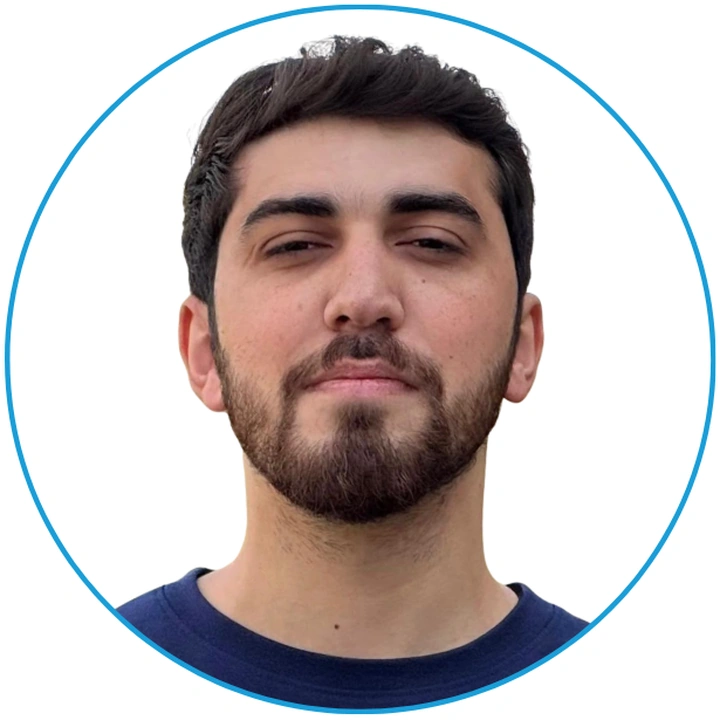
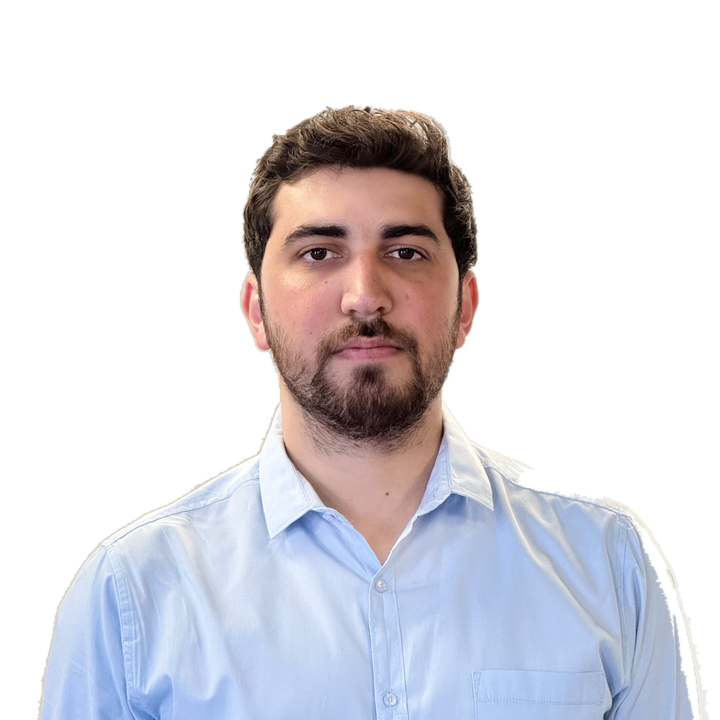
Add files via upload

diff --git a/workshop.html b/workshop.html
@@ -1,4 +1,4 @@
-<!doctype html><html lang="az"><head><meta charset="UTF-8" /><meta name="viewport" content="width=device-width, initial-scale=1.0" /><meta name="description" content="Erkən karyera tədqiqatçıları üçün üç həftəlik ARS emalatxanası." /><meta name="theme-color" content="#071f4a" /><link rel="canonical" href="https://azresearchsociety.org/workshop.html" /><meta property="og:type" content="website" /><meta property="og:title" content="Early Researcher Workshop | Azerbaijan Research Society" /><meta property="og:description" content="A free three-week online workshop covering research methods, ethics, and journal submission." /><meta property="og:url" content="https://azresearchsociety.org/workshop.html" /><title>Emalatxana | Azərbaycan Tədqiqat Cəmiyyəti</title><link rel="icon" href="assets/ars-logo.png?v=22" /><link rel="stylesheet" href="styles.css?v=22" /><script src="script.js?v=22" defer></script></head>
+<!doctype html><html lang="az"><head><meta charset="UTF-8" /><meta name="viewport" content="width=device-width, initial-scale=1.0" /><meta name="description" content="Erkən karyera tədqiqatçıları üçün üç həftəlik ARS emalatxanası." /><meta name="theme-color" content="#071f4a" /><link rel="canonical" href="https://azresearchsociety.org/workshop.html" /><meta property="og:type" content="website" /><meta property="og:title" content="Early Researcher Workshop | Azerbaijan Research Society" /><meta property="og:description" content="A free three-week online workshop covering research methods, ethics, and journal submission." /><meta property="og:url" content="https://azresearchsociety.org/workshop.html" /><title>Emalatxana | Azərbaycan Tədqiqat Cəmiyyəti</title><link rel="icon" href="assets/ars-logo.png?v=22" /><link rel="stylesheet" href="styles.css?v=22" /><script src="script.js?v=23" defer></script></head>
 <body class="inner-page" data-page="workshop"><a class="skip-link" href="#main" data-i18n="skip">Əsas məzmuna keç</a><header class="site-header"><div class="container header-inner"><a class="brand" href="index.html"><img src="assets/ars-logo.png?v=22" alt="ARS — Azerbaijan Research Society" width="662" height="700" /></a><button class="menu-toggle" type="button" aria-expanded="false" aria-controls="site-nav" aria-label="Menyunu aç"><span></span><span></span><span></span></button><nav class="site-nav" id="site-nav" data-i18n-aria-label="navLabel"><a href="about.html" data-i18n="navAbout">Haqqımızda</a><a href="programs.html" data-i18n="navPrograms">Proqramlar</a><a href="workshop.html" aria-current="page" data-i18n="navWorkshop">Emalatxana</a><a href="departments.html" data-i18n="navDepartments">Şöbələr</a><a href="people.html" data-i18n="navTeam">İnsanlar</a><a href="contact.html" data-i18n="navContact">Əlaqə</a></nav><div class="language-switch" role="group" data-i18n-aria-label="languageLabel"><button class="lang-button active" type="button" data-lang="az" aria-pressed="true">AZ</button><span></span><button class="lang-button" type="button" data-lang="en" aria-pressed="false">EN</button></div></div></header>
 <main id="main"><section class="page-hero"><div class="container reveal"><span class="page-eyebrow" data-i18n="workshopLabel">Yeni tədqiqatçılar üçün emalatxana</span><h1 data-i18n-html="workshopTitle">Tədqiqat ideyasından<br /><em>nəşrə doğru.</em></h1><p data-i18n="workshopSummary">Erkən karyera mərhələsində olan tədqiqatçılar üçün üç masterklas, praktiki tapşırıqlar və həftəlik inkişaf yolu.</p></div></section>
 <section class="section workshop"><div class="container"><span class="workshop-badge" data-i18n="workshopBadge">Pulsuz · Onlayn · 3 həftə</span><ol class="workshop-weeks"><li class="workshop-week reveal"><span class="week-number">01</span><span class="week-label" data-i18n="weekOne">1-ci həftə</span><h3 data-i18n="methodsTitle">Tədqiqat metodları</h3><p data-i18n="methodsText">Tədqiqat sualı, uyğun metodologiyanın seçilməsi və etibarlı tədqiqat planının qurulması.</p></li><li class="workshop-week reveal"><span class="week-number">02</span><span class="week-label" data-i18n="weekTwo">2-ci həftə</span><h3 data-i18n="ethicsTitle">Tədqiqat etikası</h3><p data-i18n="ethicsText">Akademik dürüstlük, məlumatlı razılıq, müəlliflik və məsuliyyətli tədqiqat təcrübəsi.</p></li><li class="workshop-week reveal"><span class="week-number">03</span><span class="week-label" data-i18n="weekThree">3-cü həftə</span><h3 data-i18n="publishingTitle">Məqalənin jurnala təqdim edilməsi</h3><p data-i18n="publishingText">Uyğun jurnalın seçilməsi, təqdimat sənədləri və rəy prosesinə hazırlıq.</p></li></ol><div class="workshop-details reveal"><div><span data-i18n="formatTitle">Format</span><p data-i18n="formatText">Təqdimatçının imkanından asılı olaraq Azərbaycan və ya ingilis dilində</p></div><div><span data-i18n="tasksTitle">Həftəlik tapşırıqlar</span><p data-i18n="tasksText">Hər tapşırıq növbəti mövzu başlamazdan əvvəl tamamlanır</p></div><a class="button" href="contact.html"><span data-i18n="workshopCta">Marağını bildir</span></a></div></div></section></main>

diff --git a/executive-board.html b/executive-board.html
@@ -5,7 +5,7 @@
     <meta name="description" content="Azərbaycan Tədqiqat Cəmiyyətinin İcra Şurası." /><meta name="theme-color" content="#071f4a" />
     <link rel="canonical" href="https://azresearchsociety.org/executive-board.html" />
     <meta property="og:type" content="website" /><meta property="og:title" content="Executive Board | Azerbaijan Research Society" /><meta property="og:description" content="Meet the Executive Board of the Azerbaijan Research Society." /><meta property="og:url" content="https://azresearchsociety.org/executive-board.html" /><meta property="og:image" content="https://azresearchsociety.org/assets/ars-logo.png?v=22" />
-    <title>İcra Şurası | Azərbaycan Tədqiqat Cəmiyyəti</title><link rel="icon" href="assets/ars-logo.png?v=22" /><link rel="stylesheet" href="styles.css?v=22" /><script src="script.js?v=22" defer></script>
+    <title>İcra Şurası | Azərbaycan Tədqiqat Cəmiyyəti</title><link rel="icon" href="assets/ars-logo.png?v=22" /><link rel="stylesheet" href="styles.css?v=22" /><script src="script.js?v=23" defer></script>
   </head>
   <body class="inner-page" data-page="executive">
     <a class="skip-link" href="#main" data-i18n="skip">Əsas məzmuna keç</a>
@@ -17,7 +17,7 @@
         <div class="board-visualization executive-structure reveal" data-board-visualization>
           <section class="board-level board-leadership" aria-labelledby="executive-leadership"><h2 class="board-level-label" id="executive-leadership" data-i18n="leadershipLayer">Rəhbərlik</h2><div class="board-level-grid board-leaders">
             <article class="person-card" data-profile="ibrahim"><div class="portrait-wrap"><img src="assets/ibrahim.webp?v=10" alt="İbrahim Məmmədov" width="720" height="720" /></div><h3>İbrahim Məmmədov</h3><p data-i18n="roleFounder">Təsisçi</p><span class="affiliation" data-i18n-html="ibrahimProfile">Sakarya Universiteti · PhD namizədi<br />Bərk cisim fizikası · DFT</span><div class="flag-line" aria-hidden="true"><i></i><i></i><i></i></div><button class="profile-open" type="button" data-i18n="viewProfile">Profilə bax</button></article>
-            <article class="person-card" data-profile="masud"><div class="portrait-wrap"><img src="assets/masud.webp?v=10" alt="Məsud Babayev" width="720" height="720" /></div><h3>Məsud Babayev</h3><p data-i18n="roleCofounder">Həmtəsisçi</p><span class="affiliation" data-i18n-html="masudProfile">KFUPM · PhD namizədi<br />Qaz hidratları · Lay modelləşdirilməsi</span><div class="flag-line" aria-hidden="true"><i></i><i></i><i></i></div><button class="profile-open" type="button" data-i18n="viewProfile">Profilə bax</button></article>
+            <article class="person-card" data-profile="masud"><div class="portrait-wrap"><img src="assets/masud.webp?v=23" alt="Məsud Babayev" width="720" height="720" /></div><h3>Məsud Babayev</h3><p data-i18n="roleCofounder">Həmtəsisçi</p><span class="affiliation" data-i18n-html="masudProfile">KFUPM · PhD namizədi<br />Qaz hidratları · Lay modelləşdirilməsi</span><div class="flag-line" aria-hidden="true"><i></i><i></i><i></i></div><button class="profile-open" type="button" data-i18n="viewProfile">Profilə bax</button></article>
           </div></section>
           <div class="structure-connector" aria-hidden="true"><span></span></div>
           <section class="board-level board-operations" aria-labelledby="executive-operations"><h2 class="board-level-label" id="executive-operations" data-i18n="operationsLayer">Proqramlar və əməliyyatlar</h2><div class="board-level-grid board-team-members">

diff --git a/about.html b/about.html
@@ -1,4 +1,4 @@
-<!doctype html><html lang="az"><head><meta charset="UTF-8" /><meta name="viewport" content="width=device-width, initial-scale=1.0" /><meta name="description" content="Azərbaycan Tədqiqat Cəmiyyətinin missiyası, məqsədi və dəyərləri." /><meta name="theme-color" content="#071f4a" /><link rel="canonical" href="https://azresearchsociety.org/about.html" /><meta property="og:type" content="website" /><meta property="og:title" content="About | Azerbaijan Research Society" /><meta property="og:description" content="The mission, purpose, and values of the Azerbaijan Research Society." /><meta property="og:url" content="https://azresearchsociety.org/about.html" /><title>Haqqımızda | Azərbaycan Tədqiqat Cəmiyyəti</title><link rel="icon" href="assets/ars-logo.png?v=22" /><link rel="stylesheet" href="styles.css?v=22" /><script src="script.js?v=22" defer></script></head>
+<!doctype html><html lang="az"><head><meta charset="UTF-8" /><meta name="viewport" content="width=device-width, initial-scale=1.0" /><meta name="description" content="Azərbaycan Tədqiqat Cəmiyyətinin missiyası, məqsədi və dəyərləri." /><meta name="theme-color" content="#071f4a" /><link rel="canonical" href="https://azresearchsociety.org/about.html" /><meta property="og:type" content="website" /><meta property="og:title" content="About | Azerbaijan Research Society" /><meta property="og:description" content="The mission, purpose, and values of the Azerbaijan Research Society." /><meta property="og:url" content="https://azresearchsociety.org/about.html" /><title>Haqqımızda | Azərbaycan Tədqiqat Cəmiyyəti</title><link rel="icon" href="assets/ars-logo.png?v=22" /><link rel="stylesheet" href="styles.css?v=22" /><script src="script.js?v=23" defer></script></head>
 <body class="inner-page" data-page="about"><a class="skip-link" href="#main" data-i18n="skip">Əsas məzmuna keç</a>
 <header class="site-header"><div class="container header-inner"><a class="brand" href="index.html" aria-label="Azerbaijan Research Society home"><img src="assets/ars-logo.png?v=22" alt="ARS — Azerbaijan Research Society" width="662" height="700" /></a><button class="menu-toggle" type="button" aria-expanded="false" aria-controls="site-nav" aria-label="Menyunu aç"><span></span><span></span><span></span></button><nav class="site-nav" id="site-nav" data-i18n-aria-label="navLabel"><a href="about.html" aria-current="page" data-i18n="navAbout">Haqqımızda</a><a href="programs.html" data-i18n="navPrograms">Proqramlar</a><a href="workshop.html" data-i18n="navWorkshop">Emalatxana</a><a href="departments.html" data-i18n="navDepartments">Şöbələr</a><a href="people.html" data-i18n="navTeam">İnsanlar</a><a href="contact.html" data-i18n="navContact">Əlaqə</a></nav><div class="language-switch" role="group" data-i18n-aria-label="languageLabel"><button class="lang-button active" type="button" data-lang="az" aria-pressed="true">AZ</button><span></span><button class="lang-button" type="button" data-lang="en" aria-pressed="false">EN</button></div></div></header>
 <main id="main"><section class="page-hero"><div class="container reveal"><span class="page-eyebrow" data-i18n="aboutLabel">Haqqımızda</span><h1 data-i18n-html="aboutLead">Sərhədləri aşan, biliyi paylaşan və <em>Azərbaycan elminin gələcəyini</em> birlikdə quran tədqiqatçılar şəbəkəsiyik.</h1></div></section>

diff --git a/index.html b/index.html
@@ -18,7 +18,7 @@
     <link rel="icon" href="assets/ars-logo.png?v=22" />
     <link rel="preload" as="image" href="assets/ars-logo.png?v=22" />
     <link rel="stylesheet" href="styles.css?v=22" />
-    <script src="script.js?v=22" defer></script>
+    <script src="script.js?v=23" defer></script>
   </head>
   <body data-page="home">
     <a class="skip-link" href="#main" data-i18n="skip">Əsas məzmuna keç</a>
@@ -246,7 +246,7 @@
               <h3>İbrahim Məmmədov</h3><p data-i18n="roleFounder">Təsisçi</p><span class="affiliation" data-i18n-html="ibrahimProfile">Sakarya Universiteti · PhD namizədi<br />Bərk cisim fizikası · DFT</span><div class="flag-line" aria-hidden="true"><i></i><i></i><i></i></div><button class="profile-open" type="button" data-profile="ibrahim" data-i18n="viewProfile">Profilə bax</button>
             </article>
             <article class="person-card reveal" data-profile="masud">
-              <div class="portrait-wrap"><img src="assets/masud.webp?v=10" alt="Məsud Babayev" width="720" height="720" loading="lazy" decoding="async" /></div>
+              <div class="portrait-wrap"><img src="assets/masud.webp?v=23" alt="Məsud Babayev" width="720" height="720" loading="lazy" decoding="async" /></div>
               <h3>Məsud Babayev</h3><p data-i18n="roleCofounder">Həmtəsisçi</p><span class="affiliation" data-i18n-html="masudProfile">KFUPM · PhD namizədi<br />Qaz hidratları · Lay modelləşdirilməsi</span><div class="flag-line" aria-hidden="true"><i></i><i></i><i></i></div><button class="profile-open" type="button" data-profile="masud" data-i18n="viewProfile">Profilə bax</button>
             </article>
             <article class="person-card reveal" data-profile="humay">

diff --git a/people.html b/people.html
@@ -14,7 +14,7 @@
     <title>İnsanlar | Azərbaycan Tədqiqat Cəmiyyəti</title>
     <link rel="icon" href="assets/ars-logo.png?v=22" />
     <link rel="stylesheet" href="styles.css?v=22" />
-    <script src="script.js?v=22" defer></script>
+    <script src="script.js?v=23" defer></script>
   </head>
   <body class="inner-page" data-page="people">
     <a class="skip-link" href="#main" data-i18n="skip">Əsas məzmuna keç</a>
@@ -40,7 +40,7 @@
         <div class="container choice-grid">
           <a class="choice-card reveal" href="executive-board.html">
             <span class="choice-index">01 · GOVERNANCE</span>
-            <div class="board-preview" aria-hidden="true"><img src="assets/ibrahim.webp?v=10" alt="" /><img src="assets/masud.webp?v=10" alt="" /><img src="assets/humay.webp?v=10" alt="" /><img src="assets/jale.webp?v=10" alt="" /><img src="assets/nargiz.webp?v=10" alt="" /><img src="assets/zehra.webp?v=10" alt="" /></div>
+            <div class="board-preview" aria-hidden="true"><img src="assets/ibrahim.webp?v=10" alt="" /><img src="assets/masud.webp?v=23" alt="" /><img src="assets/humay.webp?v=10" alt="" /><img src="assets/jale.webp?v=10" alt="" /><img src="assets/nargiz.webp?v=10" alt="" /><img src="assets/zehra.webp?v=10" alt="" /></div>
             <h2 data-i18n="executiveChoiceTitle">İcra Şurası</h2>
             <p data-i18n="executiveChoiceText">ARS-in strategiyasını, proqramlarını, kommunikasiyasını və icma fəaliyyətini idarə edən komanda.</p>
             <span class="choice-link"><span data-i18n="exploreBoard">Şuraya bax</span><span aria-hidden="true">↗</span></span>

diff --git a/scientific-board.html b/scientific-board.html
@@ -5,7 +5,7 @@
     <meta name="description" content="Azərbaycan Tədqiqat Cəmiyyətinin Elmi Məsləhət Şurası." /><meta name="theme-color" content="#071f4a" />
     <link rel="canonical" href="https://azresearchsociety.org/scientific-board.html" />
     <meta property="og:type" content="website" /><meta property="og:title" content="Scientific Advisory Board | Azerbaijan Research Society" /><meta property="og:description" content="Meet the Scientific Advisory Board of the Azerbaijan Research Society." /><meta property="og:url" content="https://azresearchsociety.org/scientific-board.html" /><meta property="og:image" content="https://azresearchsociety.org/assets/ars-logo.png?v=22" />
-    <title>Elmi Məsləhət Şurası | Azərbaycan Tədqiqat Cəmiyyəti</title><link rel="icon" href="assets/ars-logo.png?v=22" /><link rel="stylesheet" href="styles.css?v=22" /><script src="script.js?v=22" defer></script>
+    <title>Elmi Məsləhət Şurası | Azərbaycan Tədqiqat Cəmiyyəti</title><link rel="icon" href="assets/ars-logo.png?v=22" /><link rel="stylesheet" href="styles.css?v=22" /><script src="script.js?v=23" defer></script>
   </head>
   <body class="inner-page" data-page="advisory">
     <a class="skip-link" href="#main" data-i18n="skip">Əsas məzmuna keç</a>

diff --git a/script.js b/script.js
@@ -348,7 +348,7 @@ const profiles = {
   masud: {
     name: "Məsud Babayev",
     roleKey: "roleCofounder",
-    image: "assets/masud.webp?v=10",
+    image: "assets/masud.webp?v=23",
     bio: {
       az: [
         "Məsud Babayev Azərbaycan Dövlət Neft və Sənaye Universitetində Neft-qaz mühəndisliyi üzrə bakalavr, Xəzər Universitetində Neft-qaz yataqlarının işlənilməsi üzrə magistr təhsili alıb. Magistratura dövründə SOCAR-da mühəndis kimi çalışıb.",

diff --git a/departments.html b/departments.html
@@ -13,7 +13,7 @@
     <title>Elmi şöbələr | Azərbaycan Tədqiqat Cəmiyyəti</title>
     <link rel="icon" href="assets/ars-logo.png?v=22" />
     <link rel="stylesheet" href="styles.css?v=22" />
-    <script src="script.js?v=22" defer></script>
+    <script src="script.js?v=23" defer></script>
   </head>
   <body class="inner-page" data-page="departments">
     <a class="skip-link" href="#main" data-i18n="skip">Əsas məzmuna keç</a>

diff --git a/programs.html b/programs.html
@@ -14,7 +14,7 @@
     <title>Proqramlar | Azərbaycan Tədqiqat Cəmiyyəti</title>
     <link rel="icon" href="assets/ars-logo.png?v=22" />
     <link rel="stylesheet" href="styles.css?v=22" />
-    <script src="script.js?v=22" defer></script>
+    <script src="script.js?v=23" defer></script>
   </head>
   <body class="inner-page" data-page="programs">
     <a class="skip-link" href="#main" data-i18n="skip">Əsas məzmuna keç</a>

diff --git a/contact.html b/contact.html
@@ -13,7 +13,7 @@
     <title>Əlaqə | Azərbaycan Tədqiqat Cəmiyyəti</title>
     <link rel="icon" href="assets/ars-logo.png?v=22" />
     <link rel="stylesheet" href="styles.css?v=22" />
-    <script src="script.js?v=22" defer></script>
+    <script src="script.js?v=23" defer></script>
   </head>
   <body class="inner-page" data-page="contact">
     <a class="skip-link" href="#main" data-i18n="skip">Əsas məzmuna keç</a>
